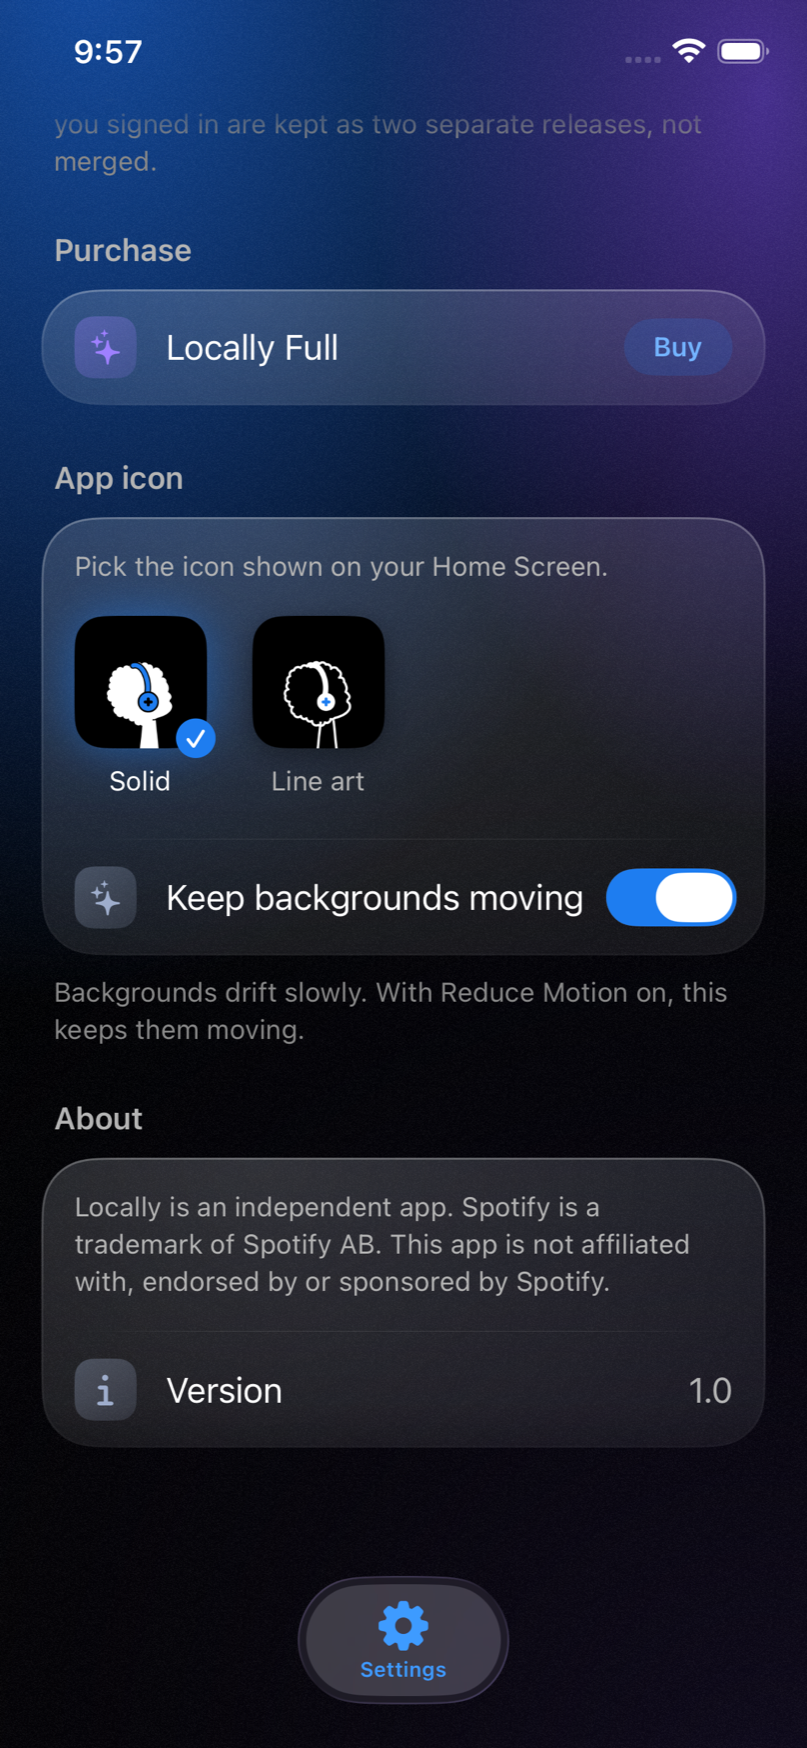
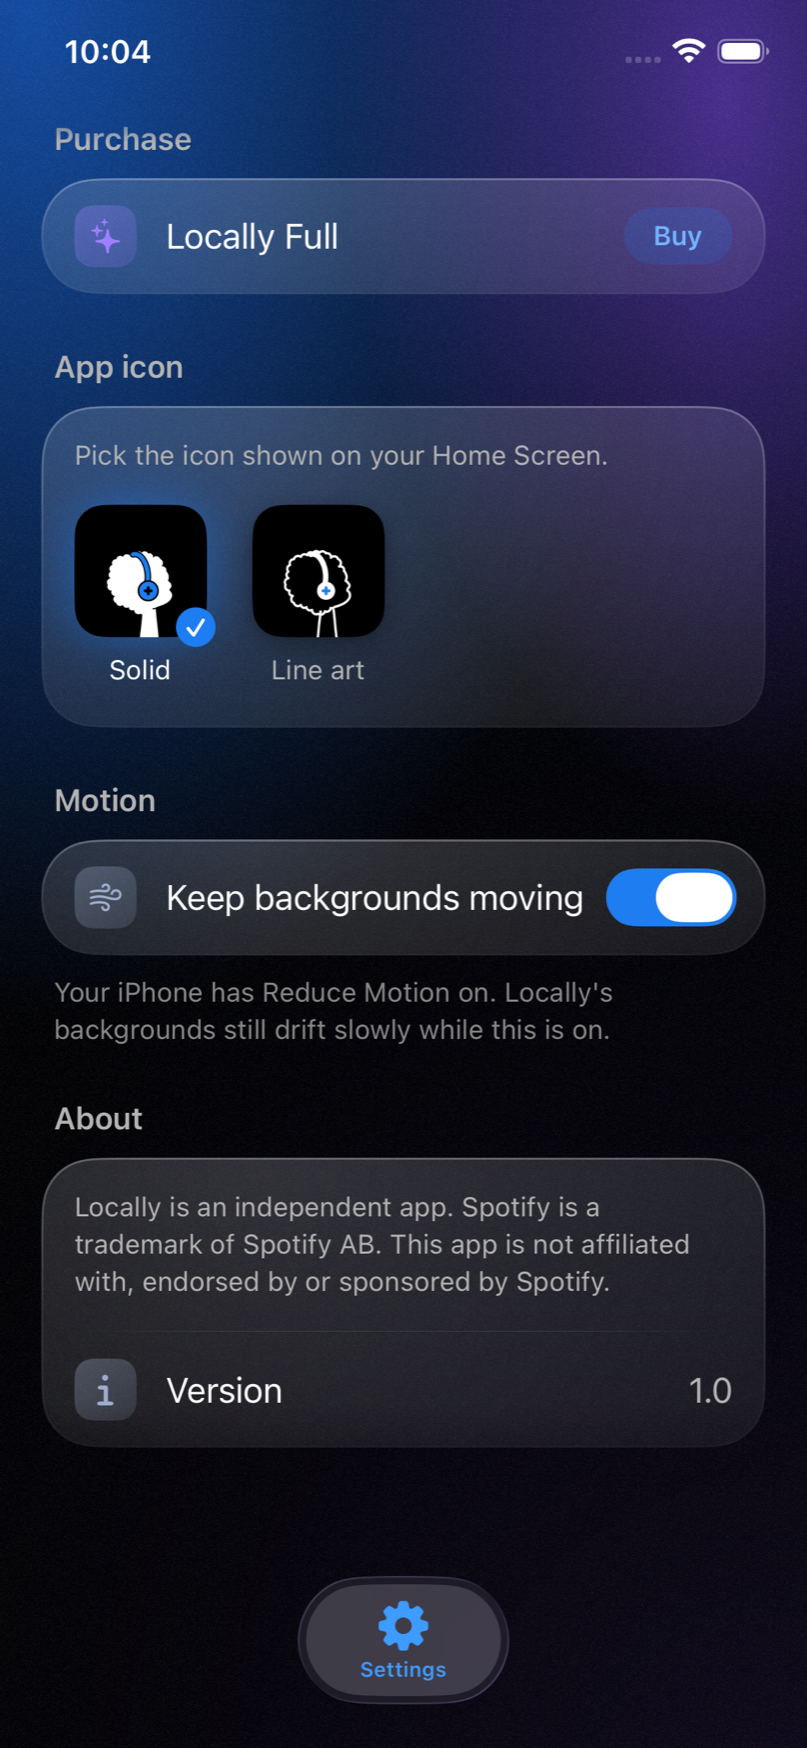
Backdrop switch: its own Motion section, a footnote for each state, the Stats cross-fade follows it (#231)
Codex review: the Stats page's studio-to-cover backdrop change now uses the backdrop
decision; the footnote has a third line for Reduce Motion on with the switch on. Owner:
the switch sat in the App icon card and read as an icon setting, so it moves to a
Motion section of its own. Preview regenerated from this head.

Claude-Session: https://claude.ai/code/session_016wtvpvRFjMyGctvKw2v9pz

diff --git a/apps/ios/Locally/Views/Settings/SettingsView.swift b/apps/ios/Locally/Views/Settings/SettingsView.swift
@@ -46,15 +46,19 @@ struct SettingsView: View {
 
                         GlassSection(title: Copy.Settings.purchaseSection) { purchaseCard }
 
+                        GlassSection(title: Copy.Settings.appIcon) {
+                            GlassCard { AppIconPicker().padding(16) }
+                        }
+
                         GlassSection(
-                            title: Copy.Settings.appIcon,
-                            footnote: systemReduceMotion
-                                ? Copy.Settings.keepBackdropsMovingHintReduced
-                                : Copy.Settings.keepBackdropsMovingHint
+                            title: Copy.Settings.motionSection,
+                            footnote: !systemReduceMotion
+                                ? Copy.Settings.keepBackdropsMovingHint
+                                : keepBackdropsMoving
+                                    ? Copy.Settings.keepBackdropsMovingHintKept
+                                    : Copy.Settings.keepBackdropsMovingHintReduced
                         ) {
                             GlassCard {
-                                AppIconPicker().padding(16)
-                                GlassDivider()
                                 GlassToggleRow(
                                     symbol: "wind", tint: Theme.Tint.slate,
                                     title: Copy.Settings.keepBackdropsMoving, isOn: $keepBackdropsMoving

diff --git a/apps/ios/Locally/Views/Stats/StatsView.swift b/apps/ios/Locally/Views/Stats/StatsView.swift
@@ -47,6 +47,7 @@ struct StatsView: View {
     @Environment(\.scenePhase) private var scenePhase
     @Environment(\.isTabSelected) private var isTabSelected
     @Environment(\.accessibilityReduceMotion) private var reduceMotion
+    @AppStorage(BackdropMotion.keepMovingKey) private var keepBackdropsMoving = false
 
     private static var edgeFade: CGFloat { 22 }
     private static var maxBottomFade: CGFloat { 90 }
@@ -134,7 +135,11 @@ struct StatsView: View {
                     .transition(.opacity)
             }
         }
-        .animation(reduceMotion ? nil : .easeInOut(duration: Theme.Immersive.backdropCrossFade), value: palette != nil)
+        .animation(
+            BackdropMotion.reducesMotion(systemReduceMotion: reduceMotion, keepMoving: keepBackdropsMoving)
+                ? nil : .easeInOut(duration: Theme.Immersive.backdropCrossFade),
+            value: palette != nil
+        )
     }
 
     /// Port of `.st-scrim`: a darkening over the cover-colour wash, strongest at the top where the

diff --git a/apps/ios/Locally/Resources/Copy.swift b/apps/ios/Locally/Resources/Copy.swift
@@ -258,9 +258,11 @@ enum Copy {
             "AppIcon": "Solid",
             "AppIcon-Line": "Line art",
         ]
+        static let motionSection = "Motion"
         static let keepBackdropsMoving = "Keep backgrounds moving"
         static let keepBackdropsMovingHintReduced = "Your iPhone has Reduce Motion on, so Locally holds its backgrounds still. Turn this on to let them drift slowly anyway."
         static let keepBackdropsMovingHint = "Backgrounds drift slowly. With Reduce Motion on, this keeps them moving."
+        static let keepBackdropsMovingHintKept = "Your iPhone has Reduce Motion on. Locally's backgrounds still drift slowly while this is on."
         static let appIconFailed = "Couldn't change the icon. Try again."
         static let title = "Settings"
         static let folderConnected = "Spotify's folder is connected."
